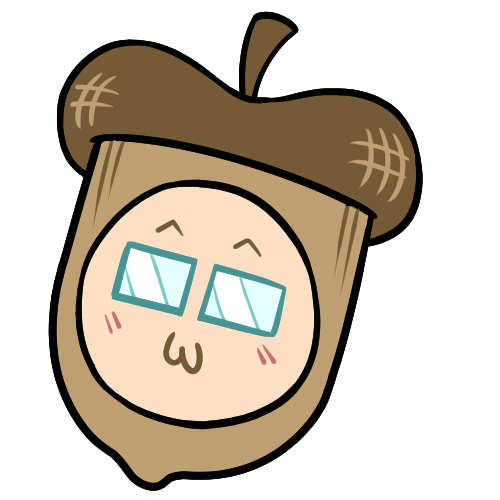
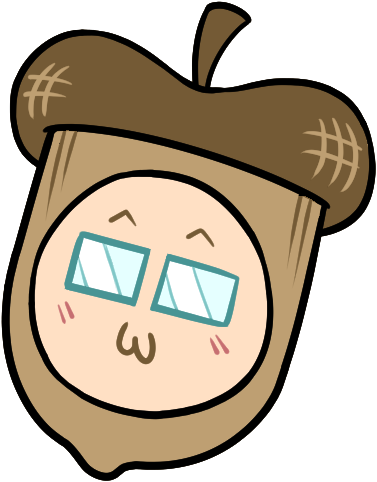
updates

diff --git a/index.html b/index.html
@@ -14,7 +14,7 @@
 </head>
 
 <body>
-    <nav class="navbar is-white">
+    <nav class="navbar is-white container">
         <div class="navbar-brand">
             <div class="navbar-item">
                 <span class="icon"><i class="fas fa-dice-d20"></i></span>
@@ -78,14 +78,14 @@
             </div>
         </div>
     </nav>
-
+   
     <section class="hero holder">
             <video autoplay muted loop>
                 <source src="assets/ricardo_esquivel_city_at_night.mp4" type="video/mp4">
             </video>
         <!-- <figure class="image">
             <img src="assets/heroimg_placeholder.jpg" id="hero-img">
-        </figure> -->
+        </figure> --> 
         <div id="hero-eps">
             <div class="level">
                 <div class="level-left is-hidden-mobile">
@@ -101,7 +101,7 @@
             </div>
         </div>
     </section>
-
+    
     <article>
         <div class="container">
             <div class="columns">
@@ -113,7 +113,7 @@
                             </div>
                             <div class="column content">
                                 <h1>About</h1>
-                                <p><b>dnduet</b> <i>(dee-en-doo-et)</i> is an actual-play RPG duet podcast created by a married non-binary couple with a love for storytelling and tabletop roleplaying games.</p>
+                                <p><b>dnduet</b> <i>(dee-en-doo-et)</i> is an actual-play RPG duet podcast created by a married non-binary couple with a love for storytelling and tabletop RPGs.</p>
                                 <p><b>Follow us on social media for updates! New episodes every Wednesday.</b></p>
                                 <div class="buttons">
                                     <a href="" target="_blank" class="button is-success">
@@ -154,20 +154,18 @@
                     <section class="section">
                         <div class="columns is-centered">
                             <div class="column has-text-centered">
-                                <h2 class="title is-size-4">Sprout</h2>
-                                <h3 class="subtitle is-size-5">The Player</h3>
                                 <figure class="image is-profile-pic">
                                     <img src="assets/sprout.png" alt="Placeholder image">
                                 </figure><br/>
-                                <p>Hi! My name's Acorn and I'm the "dungeon" master. I also built the custom tabletop RPG that we use for the main campaign of this podcast!</p>
+                                <h2 class="title is-size-4">Sprout</h2>
+                                <h3 class="subtitle is-size-5">The Player</h3>
                             </div>
                             <div class="column has-text-centered">
-                                <h2 class="title is-size-4">Acorn</h2>
-                                <h3 class="subtitle is-size-5">The Dungeon Master</h3>
                                 <figure class="image is-profile-pic">
                                     <img src="assets/acorn.png" alt="Placeholder image">
                                 </figure><br/>
-                                <p>Hi! My name's Acorn and I'm the "dungeon" master. I also built the custom tabletop RPG that we use for the main campaign of this podcast!</p>
+                                <h2 class="title is-size-4">Pup</h2>
+                                <h3 class="subtitle is-size-5">The Dungeon Master</h3>
                             </div>
                         </div>
                     </section>

diff --git a/css/main.css b/css/main.css
@@ -24,7 +24,7 @@
 }
 .is-profile-pic {
     margin: 0 auto;
-    height: 240px;
+    height: auto;
     width: 240px;
 }
 #youtube-embed {
